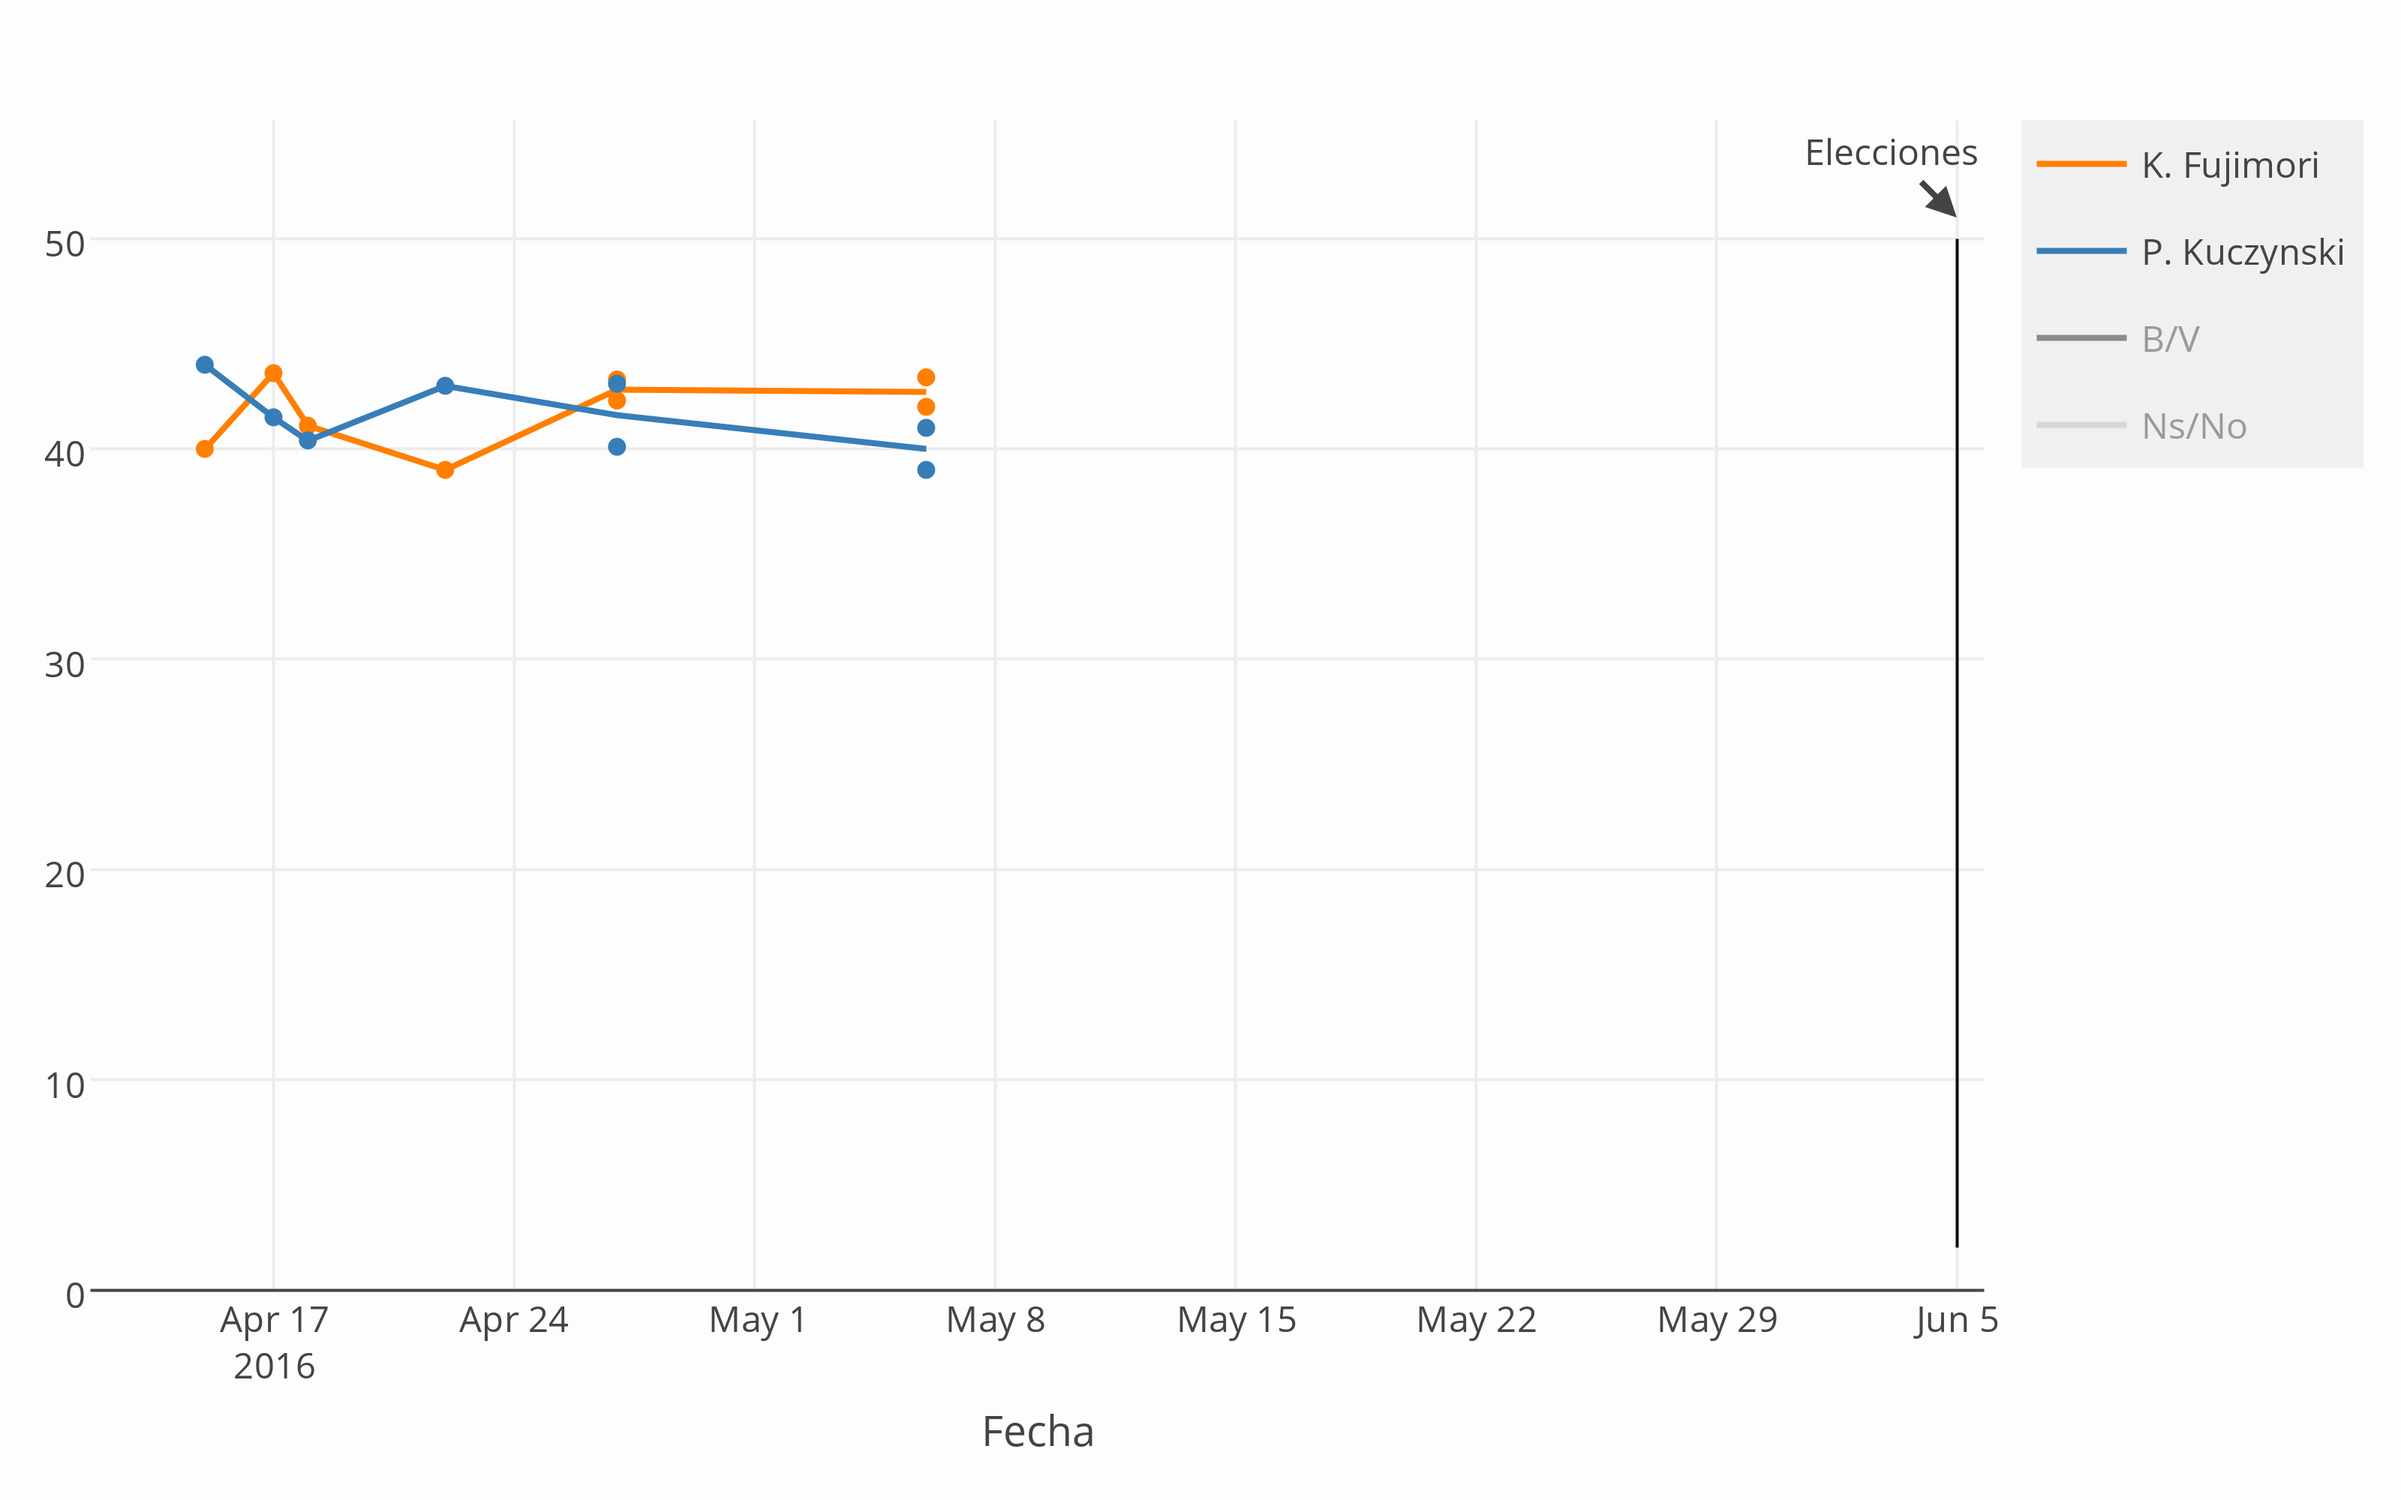
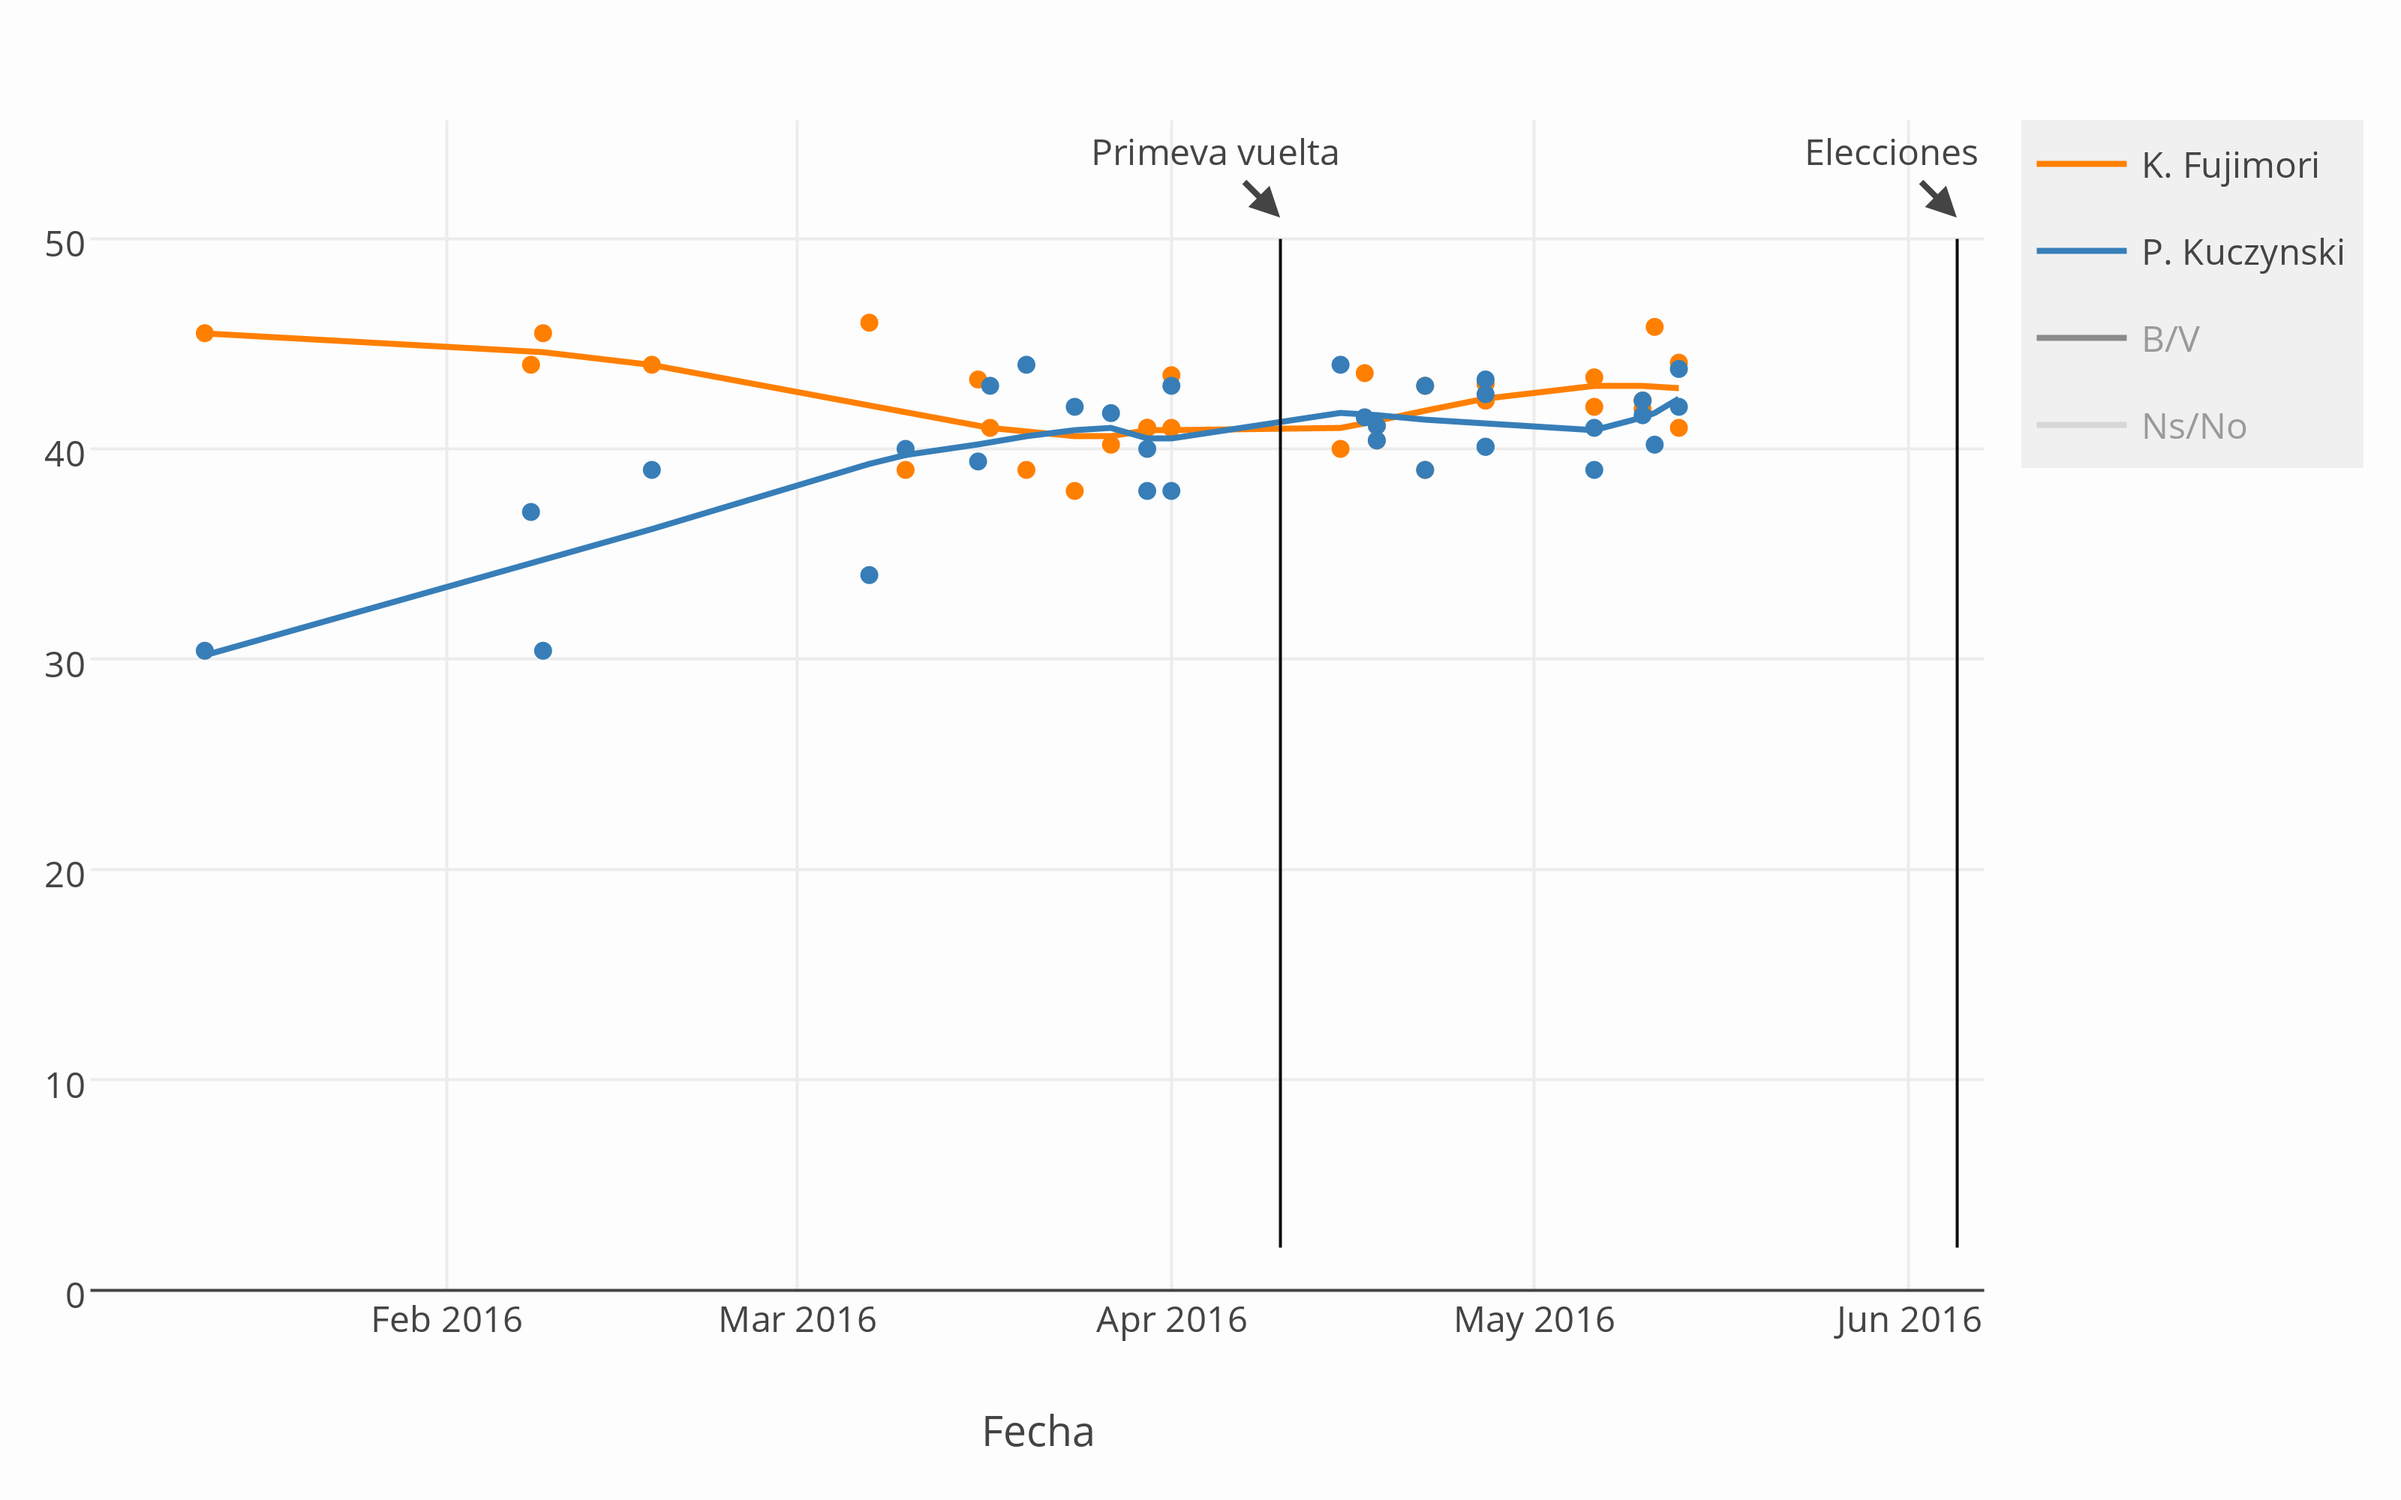
graficoActualizado

diff --git a/_posts/2016-05-16-Elecciones-presidenciales-segunda-vuelta-2016.md b/_posts/2016-05-16-Elecciones-presidenciales-segunda-vuelta-2016.md
@@ -25,7 +25,7 @@ breadcrumb: true
 
 
 
-El siguiente gráfico combina las encuestas de intención de voto. Actualizado el 08-05-2016.
+El siguiente gráfico combina las encuestas de intención de voto. Actualizado el 16-05-2016.
 
 
 
